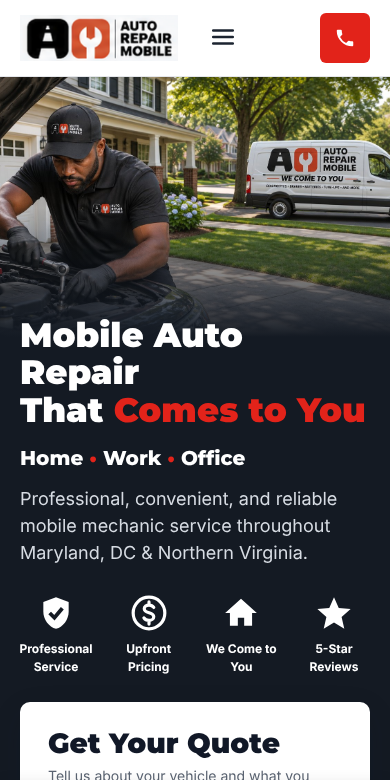
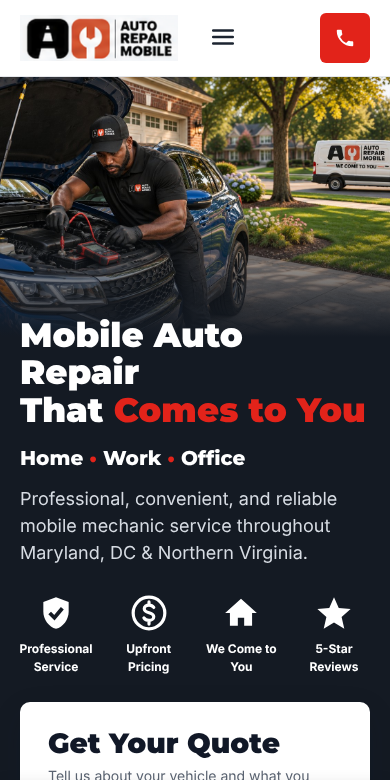
AM Auto Repair site: hero photo with car in driveway, van on the street past the yard
Claude-Session: https://claude.ai/code/session_01JW4dvEYkD34MKXGr3sva41

Changed region(s): [[0.0, 0.0923, 1.0, 0.4308]]

diff --git a/am-auto-repair-site/index.html b/am-auto-repair-site/index.html
@@ -45,7 +45,7 @@
 
   /* Hero */
   .hero{position:relative;background:var(--navy-2);color:#fff;overflow:hidden}
-  .hero-img{position:absolute;inset:0 0 0 47%;background:url(images/hero-mechanic-van.jpg) 70% center/cover no-repeat}
+  .hero-img{position:absolute;inset:0 0 0 47%;background:url(images/hero-mechanic-van.jpg) 88% center/cover no-repeat}
   .hero-img::after{content:"";position:absolute;inset:0;background:linear-gradient(90deg,var(--navy-2) 0%,rgba(20,26,35,.55) 6%,rgba(20,26,35,0) 18%)}
   .hero .wrap{position:relative;min-height:500px;display:flex;align-items:center;padding-top:48px;padding-bottom:110px}
   .hero-copy{max-width:600px}
